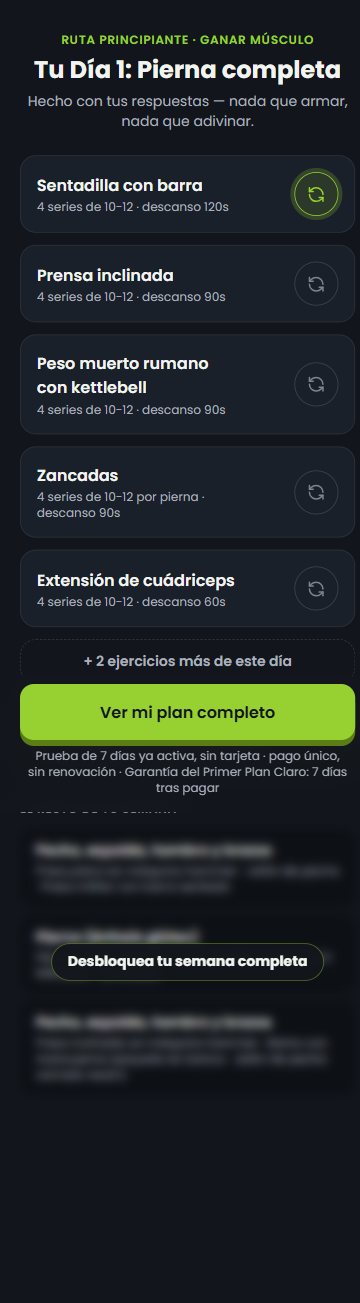
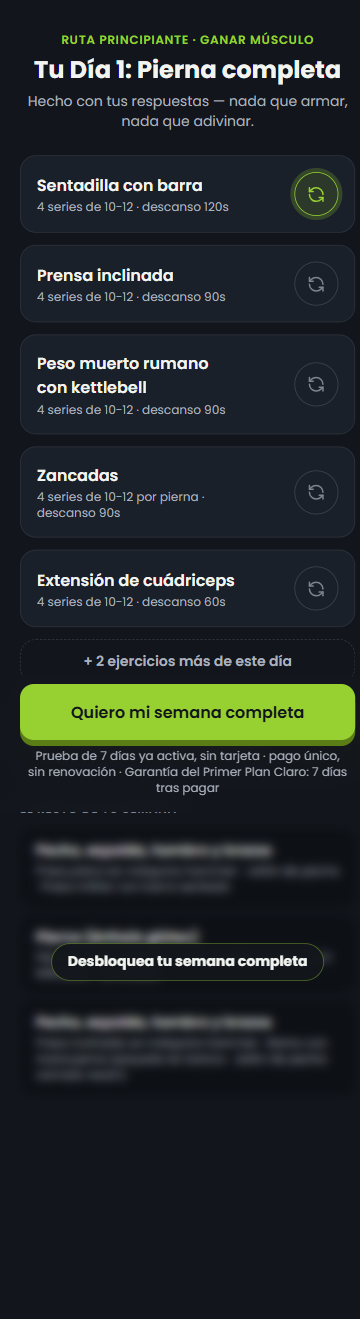
docs: capturas y veredictos de la ronda 9

diff --git a/docs/revisiones/paywall-veredicto.md b/docs/revisiones/paywall-veredicto.md
@@ -1,64 +1,9 @@
-# VEREDICTO revisor-visual — Paywall
-Fecha: 2026-09-30 00:00
+# VEREDICTO revisor-visual — paywall (ronda 9)
+Fecha: 2026-10-05 12:00
 Screenshot: docs/revisiones/paywall-375.png
-Usabilidad: 30/40
+Usabilidad: 29/40
 Craft: 15/20
-Copy (si vende): 18/20
-Fidelidad (si hubo referencia): N-A
+Copy (si vende): 17/20
+Fidelidad (si hubo referencia): FIEL
 Veredicto: NO LISTA
-
-## Nota sobre el screenshot
-Se confirma el artefacto conocido de captura `fullPage` de Playwright con elemento `sticky`
-(el CTA principal): la tarjeta "Mensual" existe en el DOM (verificado por el propio equipo,
-`innerText.includes('Mensual') === true`) pero el render largo la tapa. NO se cuenta como
-defecto — así lo indica el brief y así se puntúa en esta ronda. Sí se deja como advertencia de
-proceso (ver defecto #2): recomendable verificar con captura por secciones o scroll real en
-dispositivo antes de dar por buena cualquier futura regresión en esa zona, porque este mismo
-artefacto podría esconder un bug real el día que exista uno.
-
-## Qué cambió desde ronda 7 (verificado en código, app/paywall/page.tsx)
-1. "Prefiero pagar ahora" (línea 389-397): pasó de botón con caja a texto plano gris terciario,
-   sin borde, con subrayado solo en hover — ya NO compite visualmente con el CTA principal.
-   Corrige el defecto #3 de ronda 7.
-2. Margen antes de "Antes de empezar" (línea 436): `mt-8` → `mt-6`. Cambio real pero pequeño
-   (-8px); el salto de espacio grande que se ve en el screenshot de esta ronda es,
-   con alta probabilidad, el mismo artefacto de captura del sticky (24-32px de margen en código
-   no explican ~150px de hueco visual) — no se penaliza como defecto de diseño, pero tampoco se
-   puede dar 100% por resuelto sin una captura limpia.
-
-## Detalle Usabilidad /40
-h1 (estado sistema): 3 — spinner "Te llevamos a Hotmart", alerta de error de redirección con qué-pasó+qué-hacer, feedback de meneo en X antes de tiempo. Sin cambios.
-h2 (lenguaje usuario): 3 — copy en el léxico exacto del avatar ("Máquina ocupada", "Botón de Rescate", "Prensa ocupada"), cero jerga.
-h3 (control y libertad, código): 3 — X para cerrar (con retraso justificado), "Cancelar" durante redirección, "Ahora no" al fondo.
-h4 (consistencia): 3 — PlanCard y botones reutilizan el mismo sistema (boton-3d, radius-card) en toda la pantalla.
-h5 (prevención de errores): 3 — con el plan Mensual descartado como falso defecto, no queda ningún bloqueo real: selección deshabilitada durante redirect, sin inputs libres que validar. Sube de 1 a 3 respecto a ronda 7 (el 1 anterior asumía el bug de render como real).
-h6 (reconocer vs recordar): 3 — los 3 planes están disponibles para elegir sin tener que recordar nada de otra pantalla; localStorage recuerda la elección entre visitas. Sube de 2 a 3 por la misma razón que h5.
-h7 (flexibilidad, código): 3 — recuerda el plan elegido en localStorage, ofrece ruta alterna "Prefiero pagar ahora" ahora con el peso correcto.
-h8 (estético/minimalista): 3 — jerarquía de CTA ya corregida (un solo botón domina), pero el bloque posterior al CTA (nota de trial, "Prefiero pagar ahora", candado, garantía) son 4 líneas de microcopy consecutivas con pesos muy similares entre sí — un ojo entrenado nota que "candado" y "garantía" podrían fusionarse o diferenciarse mejor.
-h9 (errores con solución): 3 — bloque de error de redirección con texto claro y enlace directo.
-h10 (ayuda contextual): 3 — FAQ colapsable "Antes de empezar", contacto de soporte visible al fondo (aunque con poco peso, ver defecto #1).
-
-Gate de carga cognitiva: pasa (≤5 opciones de plan visibles en el código, 1 acción primaria clara, texto corto por bloque, nada interactivo sin función).
-
-## Detalle Craft /20
-Jerarquía: 3 — 4 niveles nítidos (kicker → h1 con acento → subtítulo → labels de plan); el CTA secundario aligerado ayuda pero no cambia la jerarquía tipográfica de fondo.
-Profundidad: 3 — fondo con gradiente radial propio, superficie elevada en tarjetas (boton-3d/superficie-3d), CTA sticky con blur. Sin cambios.
-Identidad: 3 — dispositivo ownable real (demo "Prensa ocupada → Sentadilla guiada" con tachado verde), paleta verde eléctrico + Poppins NO coincide con los clones vetados (papel+tinta verde+Petrona/Karla ni pizarra+latón+Archivo) — pasa el test anti-clon.
-Movimiento: 3 (código) — stagger de entrada por bloques, whileTap 0.97, layoutId en el anillo de selección, AnimatePresence en FAQ, useReducedMotion respetado en el botón X. Sin cambios.
-Encaje óptico: 3 — radios consistentes, padding simétrico, precio y badge alineados. El CTA héroe cumple las 4 anclas (contraste alto verde/fondo oscuro, whileTap definido, nunca disabled salvo durante redirect en curso, h-14 ancho completo ≥48px).
-
-## Detalle Copy /20
-Idea única dominante: 4 — todo gira en el mecanismo bautizado "Botón de Rescate", coherente en hero, demo y contexto.
-Especificidad y prueba: 3 — cifras concretas (ahorras 50%/33%, 12 cuotas, fechas de acceso), demo visual del mecanismo; sin testimonios inventados (correcto según ficha, sin prueba social día-1 todavía).
-Emoción/dolor real: 4 — "Máquina ocupada, ¿y ahora qué?" es la escena EXACTA del dolor #3 de la ficha, no un dolor genérico.
-Claridad de oferta: 3 — con el plan Mensual confirmado como presente (no un bug real), el stack de 3 planes con precio, equivalencia mensual, ahorro %, fechas de acceso y garantía nombrada cierra el ciclo de "qué recibo / cuánto cuesta / qué me protege" con claridad. Sube de 2 a 3 respecto a ronda 7 (el 2 anterior penalizaba el falso defecto).
-Dirección a una acción: 4 — un solo tipo de acción primaria repetida ("Empezar mis 7 días gratis" / "Activar mi plan"), y ahora "Prefiero pagar ahora" quedó claramente subordinado en peso visual — ya no compite, cumple el criterio de UN tipo de acción dominante con alternativa discreta en 1ª persona.
-
-Sub-checks binarios: garantía nombrada con plazo cerca del CTA de pago — CUMPLE ("Garantía del Primer Plan Claro: 7 días", junto a "Prefiero pagar ahora"). Message-match: no verificable (sin creativo de origen entregado).
-
-## Top defectos
-1. [Pie de página, "Ahora no · ¿Ya pagaste? Escríbenos"] Responde a la objeción #2 del avatar (miedo a cobros ocultos/estafa — "Es una estafa... te realizan una suscripción obligatoria") pero tiene el mismo peso visual chico y gris que cualquier link secundario sin importancia → darle algo más de contraste o un ícono (sobre/soporte) para que se lea como salida de confianza, no como letra pequeña perdida.
-2. [Sección de precios completa] El artefacto de captura fullPage+sticky que oculta la tarjeta Mensual en este screenshot es un riesgo de PROCESO, no de diseño: si mañana hay un bug real ahí, esta forma de capturar no lo va a mostrar → para las próximas rondas, agregar una captura adicional sin fullPage (o con scroll incremental) específica de la sección de precios, para no depender de inspeccionar el DOM a mano cada vez.
-3. [Bloque entre el CTA y "Antes de empezar": nota de trial, "Prefiero pagar ahora", candado de pago, garantía] 4 líneas de microcopy consecutivas con jerarquía muy plana entre sí (todas grises, tamaños similares) — un usuario que sí lee todo ese bloque no tiene pistas visuales de cuál es más importante → diferenciar candado+garantía en una sola línea compacta, o usar un tono/peso distinto para la garantía (es la respuesta a la objeción más cara del avatar).
-4. [Acordeón "Antes de empezar", margen superior] Verificar en dispositivo real (no en captura fullPage) que el `mt-6` no deje un salto de espacio visualmente desproporcionado como el que aparenta el screenshot actual — si el hueco real persiste más allá de lo que explica el margen de código, hay otro elemento invisible ocupando espacio.
-5. [General, h8/estética] La pantalla acumula 5 bloques de confianza distintos bajo el CTA (nota trial, pagar ahora, candado, garantía, FAQ, footer) — cada uno se justifica por una objeción puntual del avatar, pero el conjunto empieza a sentirse como "pared de reaseguros" más que como una decisión limpia → considerar agrupar candado+garantía+FAQ en una sola superficie visual (card) en vez de líneas sueltas apiladas.
+Top defectos: (1) CTA principal "Empezar mis 7 días gratis" sin estado de carga: empezarPrueba() hace await rpc y no desactiva el botón ni muestra spinner (doble-tap, sensación de cuelgue); (2) inversión de jerarquía en la pila bajo el CTA: "Ahora no · ¿Ya pagaste? Escríbenos" quedó en text-primary medio, más brillante que "Prefiero pagar ahora" (text-tertiary), así que la salida pesa más que la acción secundaria; (3) la elección de plan no cambia lo que hace el CTA (siempre inicia prueba) y a primera vista el sticky tapa la tarjeta Mensual, de modo que el señuelo queda oculto; (4) pb-32 deja ~110px de aire muerto entre Mensual y el CTA en la captura de scroll; (5) sin prueba ni número que ancle el valor (ej. "menos de $0.09/día" de la ficha) y 6 bloques de reaseguro/enlaces bajo el CTA.

diff --git a/docs/revisiones/onboarding-veredicto.md b/docs/revisiones/onboarding-veredicto.md
@@ -1,29 +1,9 @@
-# VEREDICTO revisor-visual — onboarding (ronda 8)
-Fecha: 2026-09-30 00:00
-Screenshot: docs/revisiones/onboarding-375.png (cuestionario) + docs/revisiones/onboarding-plan-375.png (Día 1 / plan)
-Usabilidad: 36/40
+# VEREDICTO revisor-visual — onboarding
+Fecha: 2026-10-05 10:00
+Screenshot: docs/revisiones/onboarding-375.png
+Usabilidad: 34/40
 Craft: 15/20
 Copy (si vende): 18/20
 Fidelidad (si hubo referencia): N-A
 Veredicto: NO LISTA
-
-Top defectos:
-1. [plan/Día 1, sección "El resto de tu semana" justo bajo el CTA sticky] En el screenshot full-page la etiqueta y las tarjetas borrosas quedan apretadas/casi ilegibles pegadas al bloque sticky del CTA (backdrop-blur + fondo semitransparente) → reproducir el scroll real (no solo captura full-page) y confirmar que el CTA sticky (`bottom-0`, `z-20`, `backdrop-blur-md`) no se superpone visualmente con "El resto de tu semana"; si se superpone, separar con más margen inferior o pasar a un footer fijo simple con altura reservada.
-2. [plan/Día 1, pill "Desbloquea tu semana completa"] Es un `<p>` sin `onClick`, con apariencia de botón (borde, radio pill) sentado sobre las tarjetas borrosas → viola la regla "todo elemento con apariencia interactiva hace algo" (UX regla 11): el usuario lo va a tocar esperando desbloquear y no pasa nada. Convertirlo en `<button>` real que navegue a `/paywall`, o quitarle el borde/forma de control para que se lea como leyenda, no como acción.
-3. [cuestionario, paso "frustración"] El delay de 1.7s tras elegir es ahora el más largo de todo el flujo (vs. 260ms del resto) sin ningún indicador de progreso durante la espera — solo el checkmark bajo la opción ya elegida. Si el usuario toca la opción y no ve avanzar nada en ~1s, puede pensar que no registró el tap y tocar de nuevo. Agregar un leve pulso en la barra de progreso superior durante esos 1.7s para que la espera se lea como transición intencional, no como lentitud.
-4. [plan/Día 1, CTA sticky] "Ver mi plan completo" es más honesto que la versión anterior ("Activar...") pero sigue siendo un verbo de sistema ("ver"), no un beneficio en 1ª persona (copy EJE 5: dirección a una acción) → probar algo como "Quiero mi semana completa" que mantenga la honestidad (lleva a precios) y sume beneficio desde el punto de vista del usuario.
-5. [cuestionario, pasos "meta" y "frustración" — TarjetaRuta] En las preguntas de 2 chips la tarjeta inferior ocupa gran parte del resto de la pantalla con dos bloques de lectura (label "Tu ruta se está armando" + beneficio con ícono/texto) frente a una decisión binaria simple arriba — no rompe el gate de carga cognitiva, pero un ojo entrenado nota el desbalance entre el esfuerzo de decisión (2 opciones) y el volumen de texto de apoyo.
-
-Detalle usabilidad: h1:4 h2:4 h3:4 h4:4 h5:4 h6:4 h7:3 h8:2 h9:3 h10:4
-Detalle craft: jerarquía:3 profundidad:3 identidad:3 movimiento:4 encaje:2
-Detalle copy: idea:4 especificidad:4 emoción:3 oferta:4 acción:3
-
-Notas de verificación en código:
-- Control y libertad (h3): confirmado en app/onboarding/page.tsx — modal de confirmación de salida con foco inicial en "Seguir aquí" (no en la acción destructiva), trampa de foco Tab/Shift+Tab, cierre con Escape, y salida directa sin confirmar si pasoIdx===0 (nada que perder). Correcto.
-- Flexibilidad (h7): Enter avanza en el paso "reconocimiento" (única CTA sin equivalente de teclado), flechas ↑/↓ navegan entre chips como radiogroup real. No hay atajos adicionales para el usuario experto más allá de eso — de ahí el 3, no 4.
-- Movimiento (eje 4, código): stagger de entrada en chips (delay i*0.05) y en ejercicios del plan (delay 0.08+i*0.06) ✓ · conteo ascendente de "días/semana" en el paso compromiso (animate 1→dias) ✓ · sin gráficos de anillo/barra en esta pantalla (N/A, no cuenta en contra) · whileTap scale 0.97/0.9 en botones y en el ícono de Rescate ✓ · transición entre pasos con AnimatePresence + dirección custom ✓ · modal de salida con fade+y suave ✓ · celebración real: trazo SVG que se dibuja bajo "entendemos" y en el check del paso reconocimiento ✓ · useReducedMotion respetado en todas las animaciones revisadas ✓. 6/7 aplicables, cumplidos.
-- Identidad (eje 3): paleta #12161c + acento #97d131 + Poppins, extraída del ebook propio del usuario (FICHA-ARTE.md, redecisión aprobada 03/09/2026) — NO coincide con los dos combos vetados del test anti-clon (papel cálido+tinta verde+Petrona/Karla, ni pizarra #0E0F13+latón+Archivo). Pasa el test anti-clon; no se anula el eje.
-- Garantía nombrada (copy, sub-check binario): cumple — "Garantía del Primer Plan Claro: 7 días tras pagar" aparece con nombre y plazo justo bajo el CTA de compra.
-- CTA héroe vivo (los 4 anclajes): contraste alto (lima sobre casi-negro, >3:1 ampliamente) ✓ · whileTap scale 0.97 implementado ✓ · nunca disabled por defecto, siempre activo ✓ · área táctil h-14 (56px) ancho completo ✓. Los 4 se cumplen — no baja ningún eje por este punto.
-
-Conclusión: la ronda 8 corrige bien los 3 puntos pedidos (delay del 1.7s sí da tiempo de leer, la metáfora de libreta desapareció sin dejar rastro, y "Ver mi plan completo" ya no promete activación falsa). El cuestionario en sí (onboarding-375.png) está sólido y cerca del nivel de la ronda 7. Lo que baja el puntaje es específicamente la pantalla del Día 1 (onboarding-plan-375.png): el remate visual del CTA sticky contra la sección bloqueada de "el resto de tu semana" no se ve limpio en el screenshot, y el pill de desbloqueo parece interactivo sin serlo. Craft 15/20 no alcanza el umbral de 16/20 — gate doble no se cumple. Corregir los defectos 1 y 2 (los que bajan craft/encaje) y volver a capturar antes de la próxima ronda.
+Top defectos: (1) Craft 15/20, 1 punto bajo el gate: el plan del Día 1 no tiene un elemento héroe, el título de 24px pesa casi igual que los nombres de ejercicio, y el CTA y las tarjetas no tienen whileTap ni conteo/dibujado propio. (2) Los chips de la pregunta de meta miden distinto ancho (hugging) frente al ancho completo de la tarjeta de ruta, y las tarjetas de ejercicio usan rounded-2xl mientras los chips usan --radius-button. (3) El microcopy bajo el CTA dice "Prueba de 7 días ya activa, sin tarjeta" y "Garantía de 7 días tras pagar": dos plazos de 7 días que se contradicen con "pago único" y no se entienden sin releer. (4) Hay dos CTAs al paywall en la misma vista (píldora borrosa y CTA fijo). (5) La pantalla del plan no tiene volver ni salir, y app/onboarding/plan/page.tsx no usa useReducedMotion.

diff --git a/docs/revisiones/landing-veredicto.md b/docs/revisiones/landing-veredicto.md
@@ -1,9 +1,9 @@
 # VEREDICTO revisor-visual — landing
-Fecha: 2026-09-30 00:00
+Fecha: 2026-10-05 12:00
 Screenshot: docs/revisiones/landing-375.png
-Usabilidad: 28/40
+Usabilidad: 31/40
 Craft: 14/20
-Copy (si vende): 17/20
+Copy (si vende): 18/20
 Fidelidad (si hubo referencia): N-A
 Veredicto: NO LISTA
-Top defectos: 1. [entre FAQ y footer, ~CtaFinal] sección de fondo claro sin contenido legible en el screenshot (posible fallo de contraste/reveal real, no solo de mi captura anterior) → verificar en producción que h2/CTA/PS de CtaFinal.tsx se vean con opacidad 1 y contraste AA, no solo tras animación. 2. [Oferta → precios, ui.tsx L21-25] PrecioAnimado quedó estático a propósito (comentario del código) rompiendo la baseline obligatoria de conteo animado en números héroe → resolver el bug de parpadeo con key/AnimatePresence en vez de eliminar la animación. 3. [página completa, ~8800px] header sin acceso directo a Precios/FAQ (decisión documentada, no descuido) → igual conviene una micro-nav o ancla sticky para quien ya decidió comprar, evitar forzar scroll completo. 4. [Oferta → stack de valor, Oferta.tsx L203] línea "Fuente: ficha oficial de Fitbod..." en text-tertiary 12px, casi invisible en el screenshot pese a respaldar el claim comparativo del precio → subir a text-secondary o acercarla visualmente al total tachado. 5. [heurística 7, toda la página] cero atajos/flexibilidad para el usuario avanzado (aceptable en landing, pero puntúa bajo por rúbrica) → sin acción requerida, solo anotado.
+Top defectos: 1) PrecioAnimado/useConteo cuenta al montar la pagina (no al entrar en vista) y el HTML inicial renderiza 0.00: el conteo corre fuera de pantalla y el usuario nunca lo ve; hay riesgo de flash "$0.00" en SSR/hidratacion. 2) Carga cognitiva alta: pagina de ~9900px con 5 preguntas de dolor, 4 mecanismos, stack de 5 lineas + como-funciona + 3 planes antes del CTA de oferta. 3) Contradiccion de copy: "Renuevalo cuando quieras" (Mensual) vs "pago unico / sin renovacion automatica". 4) Screenshot ilegible a la resolucion entregada (73x2000 en vista): detalles de encaje y contraste por seccion no verificables. 5) Sin prueba social real (solo garantia) y sin valor por linea en el stack: eje especificidad/oferta en 3.
